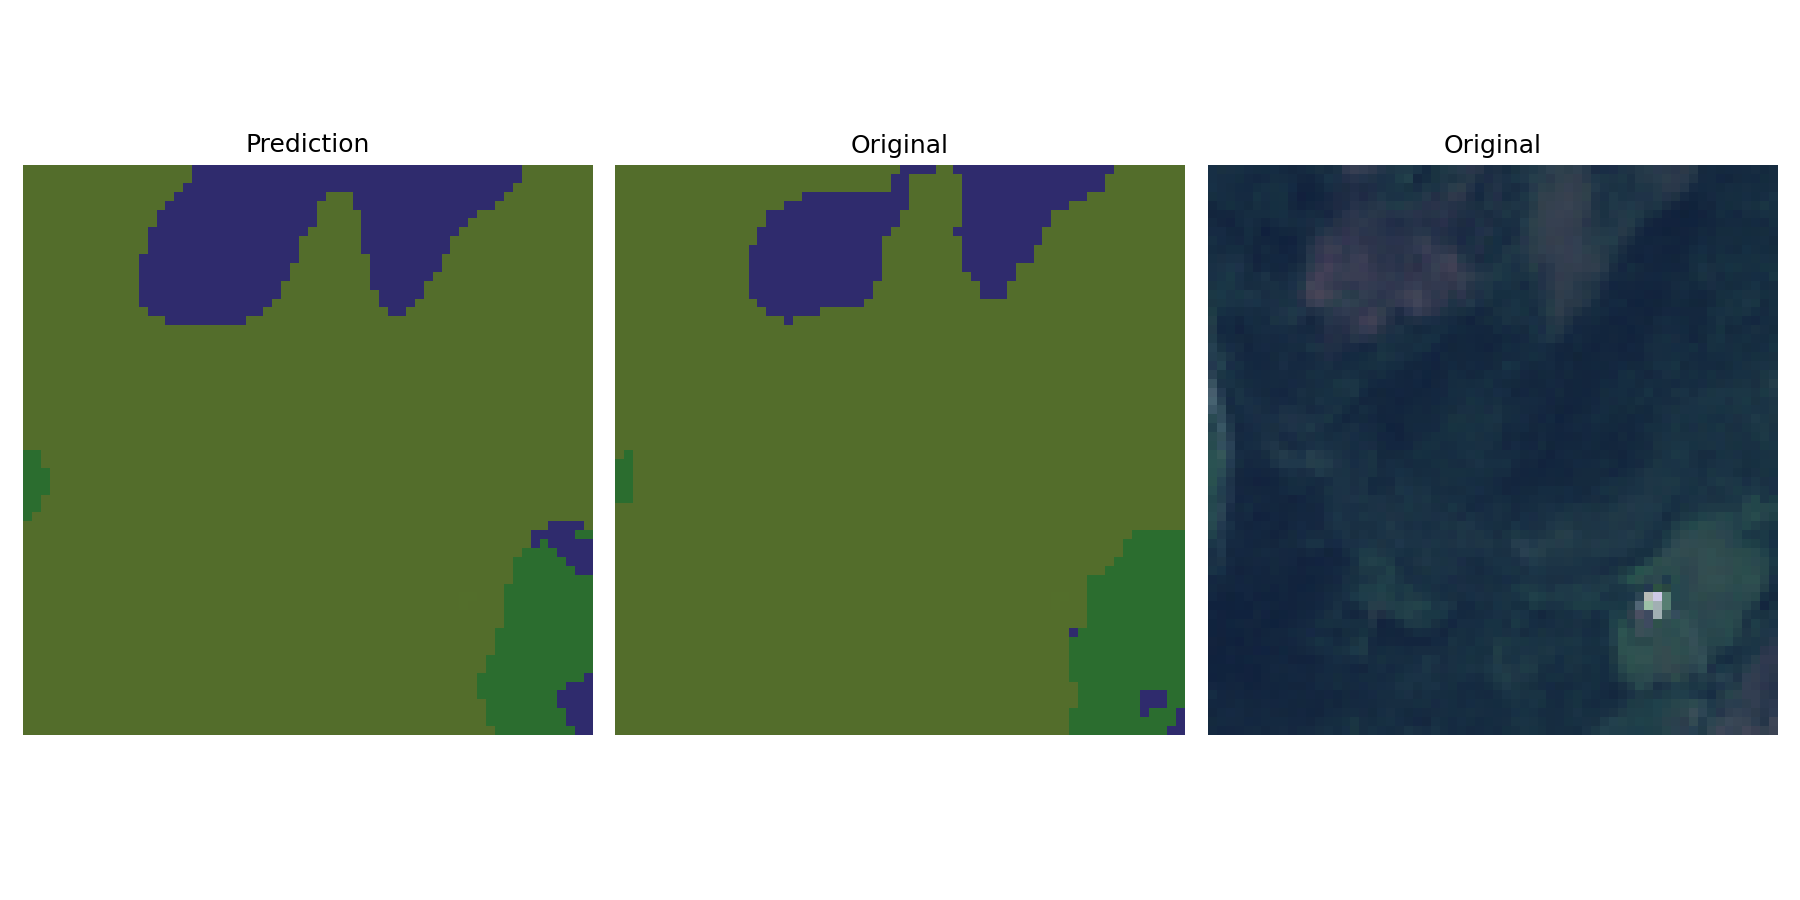
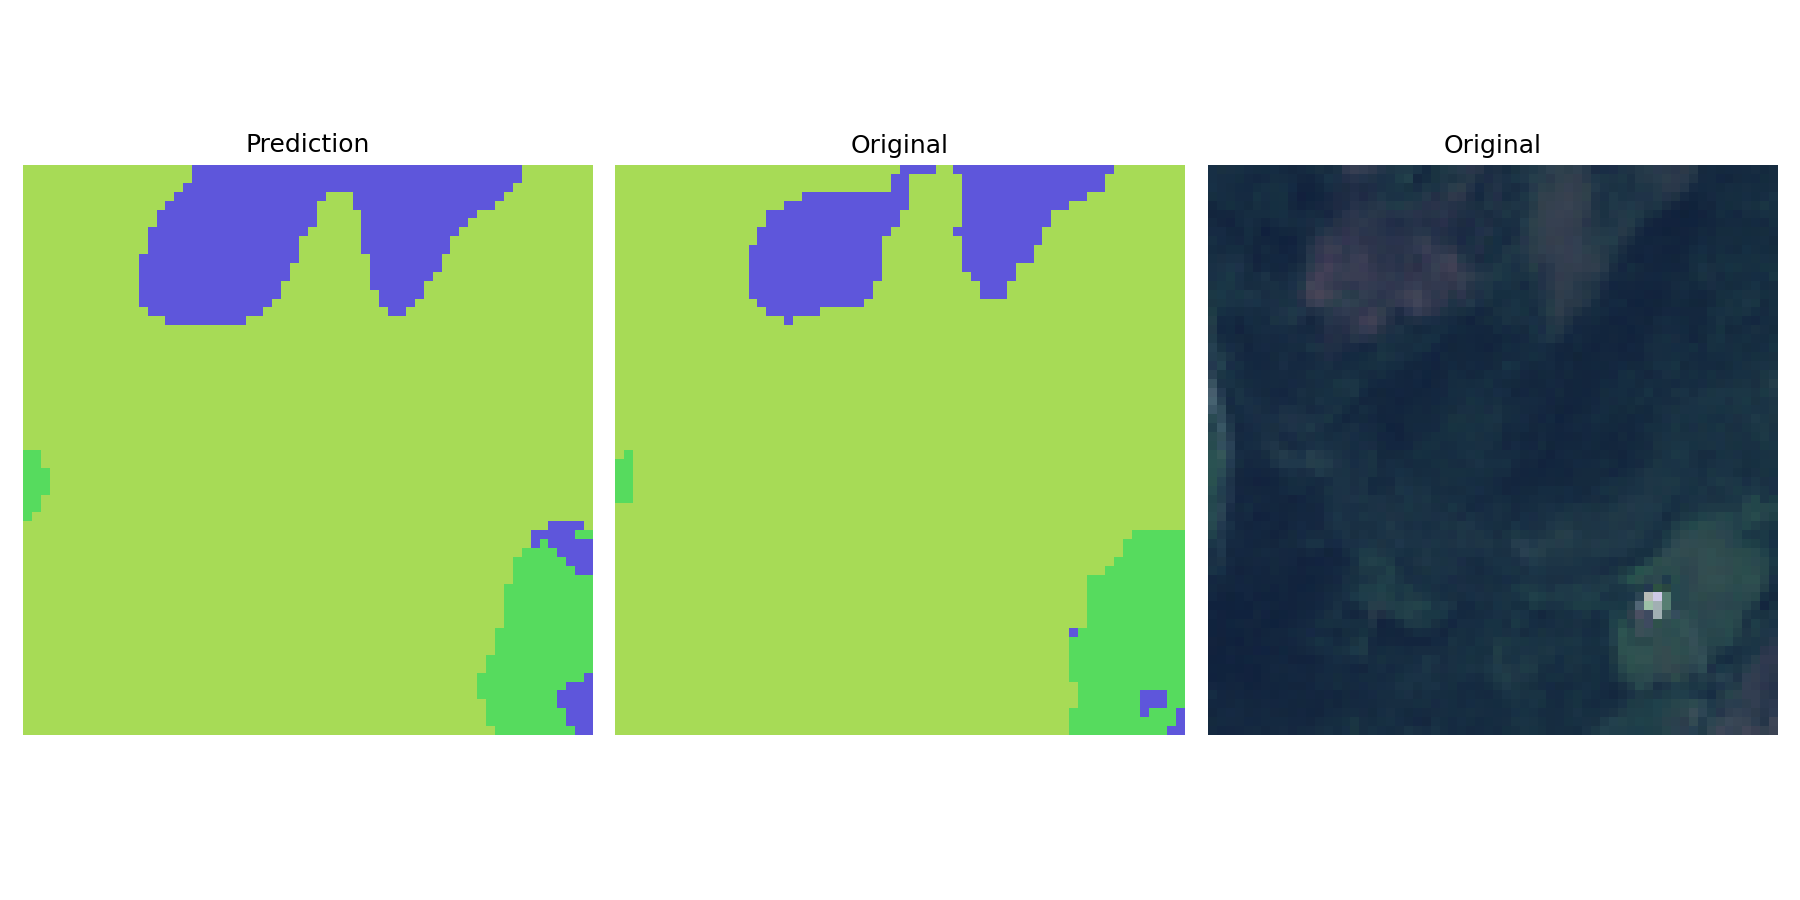
putting tiles back together

diff --git a/segmentation_load_from_folder.py b/segmentation_load_from_folder.py
@@ -1,0 +1,164 @@
+
+import os
+
+import matplotlib.pyplot as plt
+import numpy as np
+import tensorflow as tf
+import tensorflow.keras as keras
+
+import PIL.Image as Image
+
+
+import matplotlib.pyplot as plt
+import numpy as np
+import tensorflow as tf
+import pandas as pd
+import tensorflow_datasets as tfds
+import keras as keras
+import keras.layers as layers
+import segmentation_models as sm
+sm.set_framework('tf.keras')
+sm.framework()
+import tensorflow_hub as hub
+import rasterio
+import datetime
+import os
+import seaborn as sns
+import cv2
+from keras.callbacks import ModelCheckpoint
+
+EPOCHS=30
+BATCH_SIZE=10
+HEIGHT=64
+WIDTH=64
+CLASSES = {
+    1: 'Water',
+    2: 'Trees',
+    3: 'Grass',
+    4: 'Flooded Vegetation',
+    5: 'Crops',
+    6: 'Scrub/Shrub',
+    7: 'Built Area',
+    8: 'Bare Ground',
+    9: 'Snow/Ice'
+}
+N_CLASSES=len(CLASSES)
+
+def give_color_to_seg_img(seg, n_classes=N_CLASSES):
+
+    seg_img = np.zeros( (seg.shape[1],seg.shape[1],3) ).astype('float')
+    colors = sns.color_palette("hls", n_classes)
+
+    for c in range(n_classes):
+        segc = (seg == c)
+        seg_img[:,:,0] += (segc*( colors[c][0] ))
+        seg_img[:,:,1] += (segc*( colors[c][1] ))
+        seg_img[:,:,2] += (segc*( colors[c][2] ))
+
+    return(seg_img)
+
+print(f"\n Label dictionary: {CLASSES}\n")
+
+model = keras.models.load_model("segmentation_model_sat2")
+
+files = os.listdir("RGB")
+
+print(files)
+files.sort()
+print(files)
+
+names = []
+for i in range(183):
+    names.append(str(i+1)+'.jpg')
+
+print(names, len(names))
+IMAGE_SHAPE = (64, 64)
+
+predictions = []
+
+fig = plt.figure()
+plt.title("847cc28c918f50fcdebf46a90c340ac6")
+fig.tight_layout(pad=50)
+
+preds = []
+for i in range(len(names)):
+    if names[i] != ".DS_Store":
+        if names[i] != "122.jpg":
+            path = "RGB/"+names[i]
+            tile = Image.open(path)
+            tile = np.array(tile)/255.0
+            print(f"\nTile shape: {tile.shape}")
+            result = model.predict(tile[np.newaxis, ...])
+
+
+            #print(f"Prediction of: {names[i]} is {result}")
+
+            pred = np.argmax(result[0], axis=-1)
+            preds.append(pred)
+            print(f'pred: {pred.shape}')
+
+            _p = give_color_to_seg_img(pred)
+
+            #decode = CLASSES[predicted_class.numpy()]
+            #print(f"Decoded prediction {predicted_class}, {decode} \n")
+
+
+            plt.subplot(14,14,i+1)
+            #img = plt.imread(path)
+            plt.imshow(_p)
+            plt.title(f"Prediction: of Filename: {names[i]}")
+plt.show()
+
+predictions = np.array(preds)
+
+one = []
+two = []
+three = []
+four = []
+five = []
+six = []
+seven = []
+eight = []
+nine = []
+ten = []
+eleven = []
+twelve = []
+thirteen = []
+
+print(f'shape of predictions: {predictions.shape}')
+for i in range(14):
+    one.append(give_color_to_seg_img(predictions[i]))
+    two.append(give_color_to_seg_img(predictions[i+14]))
+    three.append(give_color_to_seg_img(predictions[i+28]))
+    four.append(give_color_to_seg_img(predictions[i+42]))
+    five.append(give_color_to_seg_img(predictions[i+56]))
+    six.append(give_color_to_seg_img(predictions[i+70]))
+    seven.append(give_color_to_seg_img(predictions[i+84]))
+    eight.append(give_color_to_seg_img(predictions[i+98]))
+    nine.append(give_color_to_seg_img(predictions[i+112]))
+    ten.append(give_color_to_seg_img(predictions[i+126]))
+    eleven.append(give_color_to_seg_img(predictions[i+140]))
+    twelve.append(give_color_to_seg_img(predictions[i+154]))
+    thirteen.append(give_color_to_seg_img(predictions[i+168]))
+
+
+#two = np.concatenate((give_color_to_seg_img(preds[0]),give_color_to_seg_img(preds[1]), give_color_to_seg_img(preds[2]), give_color_to_seg_img(preds[4]), give_color_to_seg_img(preds[5])), axis=0)
+one = np.concatenate((one), axis=0)
+two = np.concatenate((two), axis=0)
+three = np.concatenate((three), axis=0)
+four = np.concatenate((four), axis=0)
+five = np.concatenate((five), axis=0)
+six = np.concatenate((six), axis=0)
+seven = np.concatenate((seven), axis=0)
+eight = np.concatenate((eight), axis=0)
+nine = np.concatenate((nine), axis=0)
+ten = np.concatenate((ten), axis=0)
+eleven = np.concatenate((eleven), axis=0)
+twelve = np.concatenate((twelve), axis=0)
+thirteen = np.concatenate((thirteen), axis=0)
+
+image = np.concatenate((one, two, three, four, five, six, seven, eight, nine, ten, eleven, twelve, thirteen), axis=1)
+#print(f'shape of two: {two.shape}\n, two {two}')
+
+plt.imshow(image)
+plt.show()

diff --git a/segmentation_val.py b/segmentation_val.py
@@ -119,12 +119,9 @@ if __name__ == '__main__':
     model = keras.models.load_model("segmentation_model_sat2")
     model.summary()
 
-    max_show = 1
+    max_show = 10
     imgs, segs = next(val_gen)
     pred = model.predict(imgs)
-
-    print("here")
-    print(f"Confusion matrix: \n {tf.math.confusion_matrix(segs, pred)}")
 
     for i in range(max_show):
         _p = give_color_to_seg_img(np.argmax(pred[i], axis=-1))
@@ -137,11 +134,11 @@ if __name__ == '__main__':
         plt.figure(figsize=(12,6))
         plt.subplot(131)
         plt.title("Prediction")
-        plt.imshow(predimg)
+        plt.imshow(_p)
         plt.axis("off")
         plt.subplot(132)
         plt.title("Original")
-        plt.imshow(trueimg)
+        plt.imshow(_s)
         plt.axis("off")
         plt.subplot(133)
         plt.title("Original")
@@ -154,3 +151,33 @@ if __name__ == '__main__':
     """
     https://www.kaggle.com/ashishsingh226/semantic-segmentation-cityscapes
     """
+
+    print(f'preds: {pred[1]}')
+    print(f'segs: {segs[1]}')
+
+    #pred1 = np.argmax(pred[1], axis=-1)
+    #print(f'pred1: {pred1}')
+    #seg1 = np.argmax(segs[1], axis=-1)
+    #print(f'seg1: {seg1}')
+    predictions = []
+    segmentations = []
+    for i in range(len(pred)):
+        predictions.append(np.argmax(pred[i], axis=-1))
+        segmentations.append(np.argmax(segs[i], axis=-1))
+
+    print(f'preds: {predictions[1]}')
+    print(f'segs: {segmentations[1]}')
+
+    segmentations = np.array(segmentations)
+    predictions = np.array(predictions)
+
+    print(f"segmentation shape: {segmentations.shape}")
+    print(f"predictions shape: {predictions.shape}")
+
+    pred1D = predictions.reshape(-1)
+    segs1D = segmentations.reshape(-1)
+
+    print(f"segmentation 1d: {segs1D.shape}")
+    print(f"predictions 1d: {pred1D.shape}")
+
+    print(f"Confusion matrix: \n {tf.math.confusion_matrix(segs1D, pred1D, num_classes=N_CLASSES+1)}")
